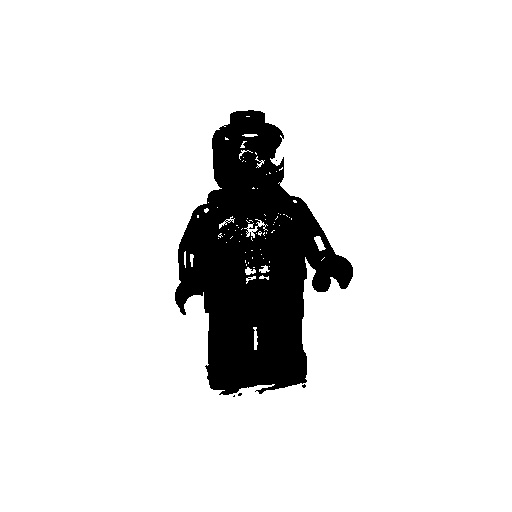
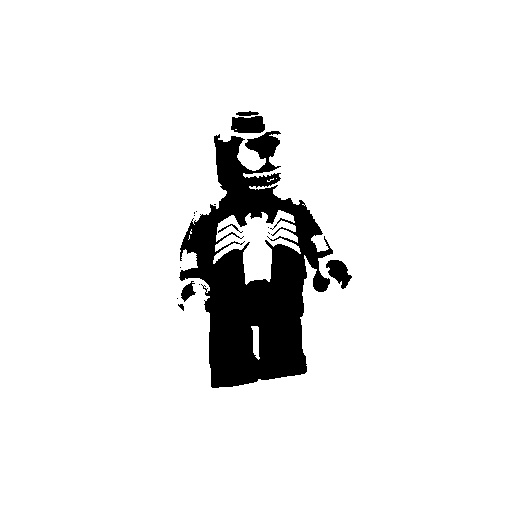
se agregaron nuevas cosas

Changed region(s): [[0.3438, 0.2188, 0.6875, 0.625], [0.4062, 0.7188, 0.5938, 0.7812], [0.5, 0.6562, 0.5312, 0.6875]]

diff --git a/convolucion2.py b/convolucion2.py
@@ -52,9 +52,9 @@ def HEEHEE (A):
     B = np.zeros((len(A),len(A[0])))
     for i in range(len(A)):
         for j in range(len(A[0])):
-            if A[i][j]<100:
+            if A[i][j]<50:
                 B[i][j] = 0
-            elif A[i][j] > 100:
+            elif A[i][j] > 50:
                 B[i][j] = 255
     return B
                 
